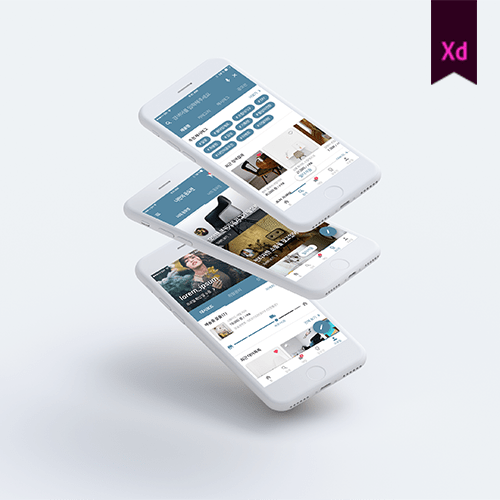
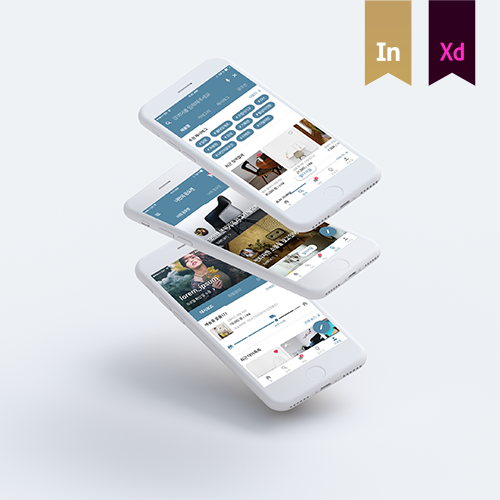
Spotify Link

Changed region(s): [[0.72, 0.0, 0.96, 0.18]]

diff --git a/public/article/spemer-music.html b/public/article/spemer-music.html
@@ -154,7 +154,8 @@
 		<div class="everyTxtEndEnd">
 			<p>
 				
-				<strong><a href="https://soundcloud.com/spemer" target="_blank" title="SoundCloud(new tab)">Click Here to listen on SoundCloud</a>&nbsp;<i class="fa fa-soundcloud" aria-hidden="true"></i></i></strong><br /><br />
+				<strong><a href="https://soundcloud.com/spemer" target="_blank" title="SoundCloud(new tab)">Click Here to listen on SoundCloud</a>&nbsp;<i class="fa fa-soundcloud" aria-hidden="true"></i></i></strong><br>
+				<strong><a href="https://open.spotify.com/artist/05TXCFZD9K41B0jg8VPwac" target="_blank" title="Spotify(new tab)">Click Here to listen on Spotify</a>&nbsp;<i class="fa fa-spotify" aria-hidden="true"></i></i></strong><br><br>
 
 				<strong>Tools :</strong> ImageLine FL Studio<br />
 

diff --git a/public/js/index.js b/public/js/index.js
@@ -1,15 +1,5 @@
 //"use strict";
 //
-// meta -> charset
-// (function(){
-//     const headTitle = document.querySelector('head > title');
-//     const setMeta = document.createElement('meta');
-//     setMeta.setAttribute('charset','utf-8');
-//     headTitle.after(setMeta);
-// })();
-
-
-//
 // headerLogo
 (function(){
     const _headerLogo = document.querySelector('#headerLogo');
@@ -484,3 +474,12 @@ function addTooltip() {
 function removeTooltip() {
     $('.copied').addClass('tooltip');
 }
+
+//
+// meta -> charset
+(function(){
+    const headTitle = document.querySelector('head > title');
+    const setMeta = document.createElement('meta');
+    setMeta.setAttribute('owner','Hyouk Seo(Spemer)');
+    headTitle.appendChild(setMeta);
+})();

diff --git a/public/portfolio/insharior-ux-case-study-user-experience-design.html b/public/portfolio/insharior-ux-case-study-user-experience-design.html
@@ -743,7 +743,8 @@
 							<a href="https://www.behance.net/gallery/53459555/Insharior-Interior-item-sharing-mobile-application" target="_blank" title="Behance(new tab)" alt="Behance(new tab)">
 								<img src="../img/works/insharior/insharior_featured.png" alt="Featured from Adobe XD gallery" title="Featured from Adobe XD gallery" />
 								<figcaption>
-									Featured from Adobe XD gallery (August 5, 2017)
+									Featured from Adobe XD gallery (August 5, 2017)<br>
+									Featured from Interaction gallery (December 28, 2017)
 								</figcaption>
 							</a>
 						</figure>
